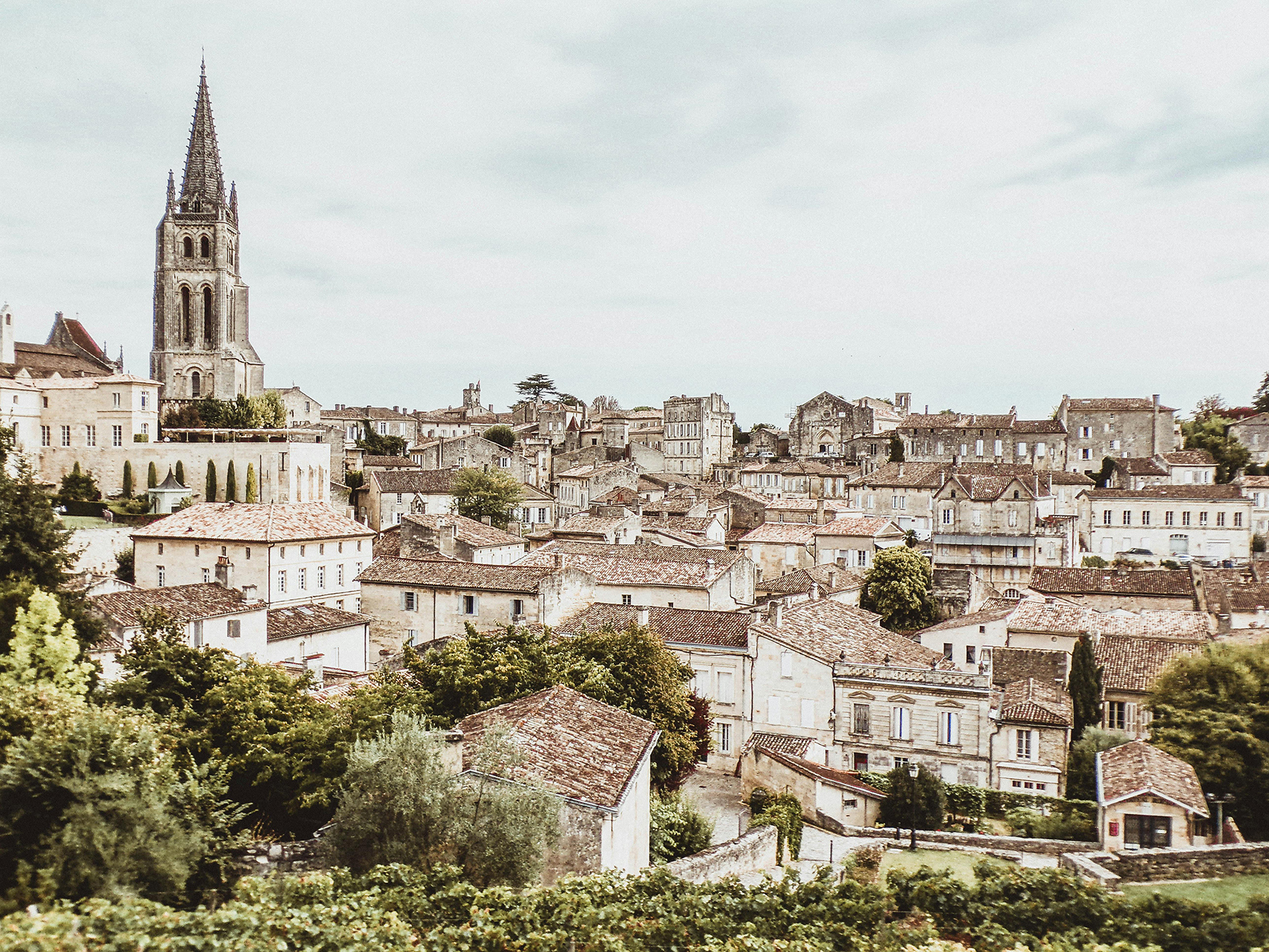
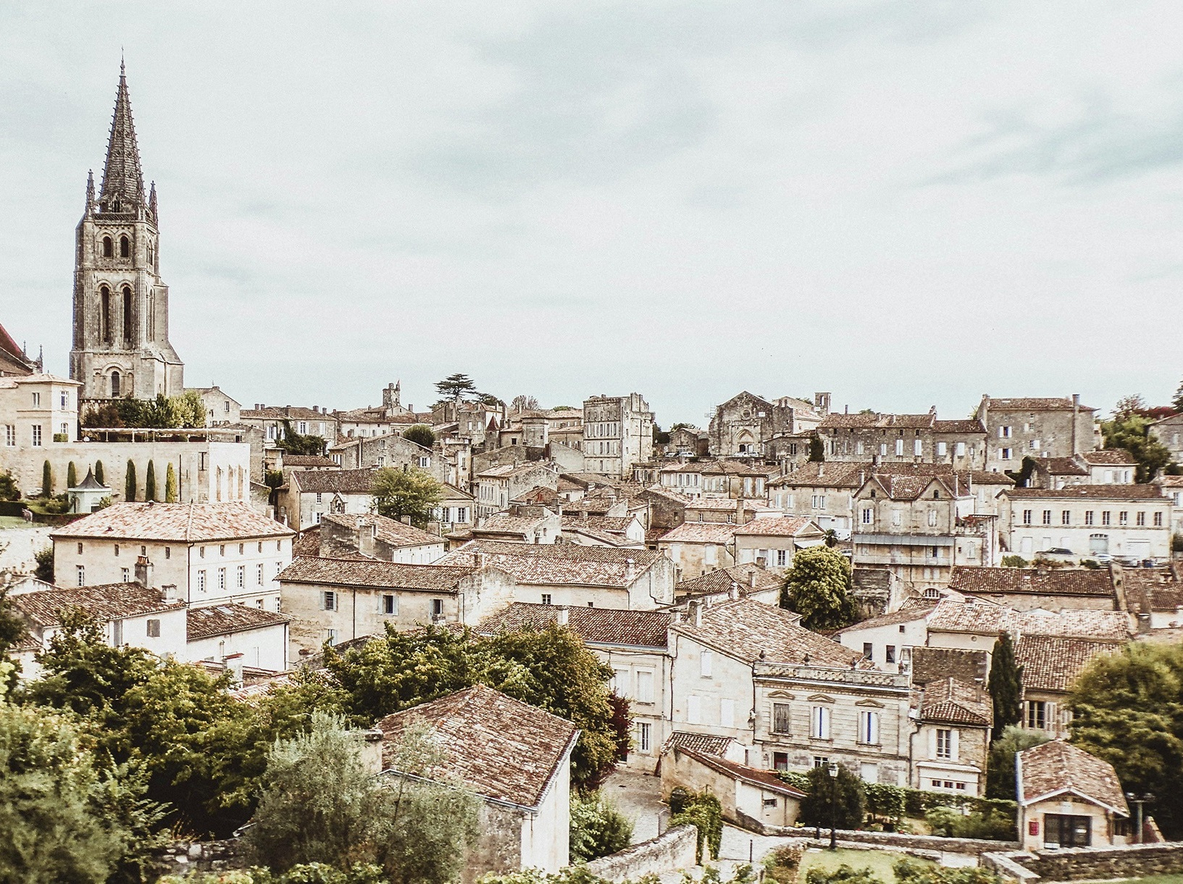
Fixes

diff --git a/index.html b/index.html
@@ -7,7 +7,6 @@
 
   <link rel="stylesheet" href="https://cdn.jsdelivr.net/npm/bootstrap@4.1.3/dist/css/bootstrap.min.css"
     integrity="sha384-MCw98/SFnGE8fJT3GXwEOngsV7Zt27NXFoaoApmYm81iuXoPkFOJwJ8ERdknLPMO" crossorigin="anonymous">
-
   <link href="bootstrap.min.css" rel="stylesheet">
 
   <title>FLIP - Home</title>
@@ -16,7 +15,8 @@
     .hero-section {
       position: relative;
       overflow: hidden;
-      height: 100vh;
+      height: auto;
+      display: flex;
     }
 
     .hero-section .carousel.slide {
@@ -32,19 +32,25 @@
       object-fit: cover;
       height: 100%;
       width: 100%;
+      opacity: 0.7;
     }
 
     .hero-section .container {
       position: relative;
       z-index: 2;
     }
-  </style>
 
+    @media (max-width: 1000px) {
+      .hero-section .carousel-item img {
+        opacity: 0.4;
+      }
+    }
+  </style>
 </head>
 
 <body>
-  <nav class="navbar navbar-expand-lg navbar-light bg-light">
-    <a class="navbar-brand" href="#">Navbar</a>
+  <nav class="navbar navbar-expand-lg navbar-light bg-light mx-3">
+    <a class="navbar-brand" href="#">FLIP</a>
     <button class="navbar-toggler" type="button" data-toggle="collapse" data-target="#navbarSupportedContent"
       aria-controls="navbarSupportedContent" aria-expanded="false" aria-label="Toggle navigation">
       <span class="navbar-toggler-icon"></span>
@@ -53,30 +59,27 @@
     <div class="collapse navbar-collapse" id="navbarSupportedContent">
       <ul class="navbar-nav mr-auto">
         <li class="nav-item active">
-          <a class="nav-link" href="#">Home <span class="sr-only">(current)</span></a>
+          <a class="nav-link" href="#">Home<span class="sr-only">(current)</span></a>
         </li>
         <li class="nav-item">
-          <a class="nav-link" href="#">Link</a>
+          <a class="nav-link" href="#">About Us</a>
         </li>
         <li class="nav-item dropdown">
           <a class="nav-link dropdown-toggle" href="#" id="navbarDropdown" role="button" data-toggle="dropdown"
             aria-haspopup="true" aria-expanded="false">
-            Dropdown
+            Programs
           </a>
           <div class="dropdown-menu" aria-labelledby="navbarDropdown">
-            <a class="dropdown-item" href="#">Action</a>
-            <a class="dropdown-item" href="#">Another action</a>
+            <a class="dropdown-item" href="#">For Adults</a>
+            <a class="dropdown-item" href="#">For Kids</a>
             <div class="dropdown-divider"></div>
-            <a class="dropdown-item" href="#">Something else here</a>
+            <a class="dropdown-item" href="#">Sign up</a>
           </div>
-        </li>
-        <li class="nav-item">
-          <a class="nav-link disabled" href="#">Disabled</a>
         </li>
       </ul>
       <form class="form-inline my-2 my-lg-0">
         <input class="form-control mr-sm-2" type="search" placeholder="Search" aria-label="Search">
-        <button class="btn btn-outline-success my-2 my-sm-0" type="submit">Search</button>
+        <button class="btn btn-lg my-2 my-sm-0 btn-primary py-1" type="submit">Search</button>
       </form>
     </div>
   </nav>
@@ -86,27 +89,29 @@
       <div class="row align-items-center g-lg-5 py-5">
         <div class="col-lg-7 text-center text-lg-start">
           <h1 class="display-4 fw-bold lh-1 text-body-emphasis mb-3">Experience French Like Never Before</h1>
-          <p class="col-lg-10 fs-4">Dive into an immersive experience that transforms your skills and opens up a world
-            of opportunities.</p>
+          <p class="col-lg-10 fs-4">Dive into an immersive experience with the French Language Immersion Program (FLIP).
+          </p>
         </div>
         <div class="col-md-10 mx-auto col-lg-5">
           <form class="p-4 p-md-5 border rounded-3 bg-body-tertiary">
             <div class="form-floating mb-3">
-              <input type="email" class="form-control" id="floatingInput" placeholder="name@example.com">
-              <label for="floatingInput">Name</label>
+              <input type="name" class="form-control" id="floatingName" placeholder="First Name Last Name">
+              <label for="floatingName">Name</label>
             </div>
             <div class="form-floating mb-3">
-              <input type="password" class="form-control" id="floatingPassword" placeholder="Password">
-              <label for="floatingPassword">Email</label>
+              <input type="email" class="form-control" id="floatingEmail" placeholder="email@example.com">
+              <label for="floatingEmail">Email</label>
             </div>
 
-            <div class="col-auto my-1">
-              <select class="custom-select mr-sm-2" id="inlineFormCustomSelect">
-                <label for="floatingLevel">Level</label>
+            <div class="mb-3">
+              <select class="form-select" id="floatingLevel">
                 <option selected>Level</option>
                 <option value="1">CEFR A1</option>
                 <option value="2">CEFR A2</option>
                 <option value="3">CEFR B1</option>
+                <option value="4">CEFR B2</option>
+                <option value="5">CEFR C1</option>
+                <option value="6">CEFR C2</option>
               </select>
             </div>
 
@@ -123,22 +128,22 @@
       </div>
     </div>
 
-    <div id="carouselExampleIndicators" class="carousel slide carousel-fade position-absolute w-100 h-100"
-      data-ride="carousel" style="z-index: 1;">
+    <div id="carouselIndicators" class="carousel slide carousel-fade position-absolute w-100 h-100" data-ride="carousel"
+      style="z-index: 1;">
       <ol class="carousel-indicators">
-        <li data-target="#carouselExampleIndicators" data-slide-to="0" class="active"></li>
-        <li data-target="#carouselExampleIndicators" data-slide-to="1"></li>
-        <li data-target="#carouselExampleIndicators" data-slide-to="2"></li>
+        <li data-target="#carouselIndicators" data-slide-to="0" class="active"></li>
+        <li data-target="#carouselIndicators" data-slide-to="1"></li>
+        <li data-target="#carouselIndicators" data-slide-to="2"></li>
       </ol>
       <div class="carousel-inner">
         <div class="carousel-item active">
-          <img class="d-block w-100 h-100" src="hero_luke-webb.jpg" alt="First slide">
+          <img class="d-block w-100 h-100" src="hero_luke-webb.jpg">
         </div>
         <div class="carousel-item">
-          <img class="d-block w-100 h-100" src="hero_laurent-julien.jpg" alt="Second slide">
+          <img class="d-block w-100 h-100" src="hero_laurent-julien.jpg">
         </div>
         <div class="carousel-item">
-          <img class="d-block w-100 h-100" src="hero_stuthnagyniki.jpg" alt="Third slide">
+          <img class="d-block w-100 h-100" src="hero_stuthnagyniki.jpg">
         </div>
       </div>
     </div>
@@ -147,7 +152,6 @@
   <section>
     <svg xmlns="http://www.w3.org/2000/svg" class="d-none">
       <symbol id="bootstrap" viewBox="0 0 118 94">
-        <title>Bootstrap</title>
         <path fill-rule="evenodd" clip-rule="evenodd"
           d="M24.509 0c-6.733 0-11.715 5.893-11.492 12.284.214 6.14-.064 14.092-2.066 20.577C8.943 39.365 5.547 43.485 0 44.014v5.972c5.547.529 8.943 4.649 10.951 11.153 2.002 6.485 2.28 14.437 2.066 20.577C12.794 88.106 17.776 94 24.51 94H93.5c6.733 0 11.714-5.893 11.491-12.284-.214-6.14.064-14.092 2.066-20.577 2.009-6.504 5.396-10.624 10.943-11.153v-5.972c-5.547-.529-8.934-4.649-10.943-11.153-2.002-6.484-2.28-14.437-2.066-20.577C105.214 5.894 100.233 0 93.5 0H24.508zM80 57.863C80 66.663 73.436 72 62.543 72H44a2 2 0 01-2-2V24a2 2 0 012-2h18.437c9.083 0 15.044 4.92 15.044 12.474 0 5.302-4.01 10.049-9.119 10.88v.277C75.317 46.394 80 51.21 80 57.863zM60.521 28.34H49.948v14.934h8.905c6.884 0 10.68-2.772 10.68-7.727 0-4.643-3.264-7.207-9.012-7.207zM49.948 49.2v16.458H60.91c7.167 0 10.964-2.876 10.964-8.281 0-5.406-3.903-8.178-11.425-8.178H49.948z">
         </path>
@@ -171,7 +175,7 @@
     </svg>
 
     <div class="container px-4 py-5" id="hanging-icons">
-      <h2 class="pb-2 border-bottom">Hanging icons</h2>
+      <h2 class="pb-2 border-bottom">What's in it for you?</h2>
       <div class="row g-4 py-5 row-cols-1 row-cols-lg-3">
         <div class="col d-flex align-items-start">
           <div
@@ -224,7 +228,7 @@
       </div>
     </div>
   </section>
-  
+
   <section>
     <div class="card-columns">
 
@@ -274,9 +278,18 @@
       <div class="card">
         <img class="card-img" src="card5_pixabay.jpg" alt="Card image">
       </div>
-
     </div>
   </section>
+
+  <footer class="py-3 my-4">
+    <ul class="nav justify-content-center border-bottom pb-3 mb-3">
+      <li class="nav-item"><a href="#" class="nav-link px-2 text-body-secondary">Home</a></li>
+      <li class="nav-item"><a href="#" class="nav-link px-2 text-body-secondary">About Us</a></li>
+      <li class="nav-item"><a href="#" class="nav-link px-2 text-body-secondary">Programs for Adults</a></li>
+      <li class="nav-item"><a href="#" class="nav-link px-2 text-body-secondary">Programs for Kids</a></li>
+    </ul>
+    <p class="text-center text-body-secondary">&copy; 2024 French Language Immersion Program</p>
+  </footer>
 
   <script src="https://code.jquery.com/jquery-3.3.1.slim.min.js"
     integrity="sha384-q8i/X+965DzO0rT7abK41JStQIAqVgRVzpbzo5smXKp4YfRvH+8abtTE1Pi6jizo"
